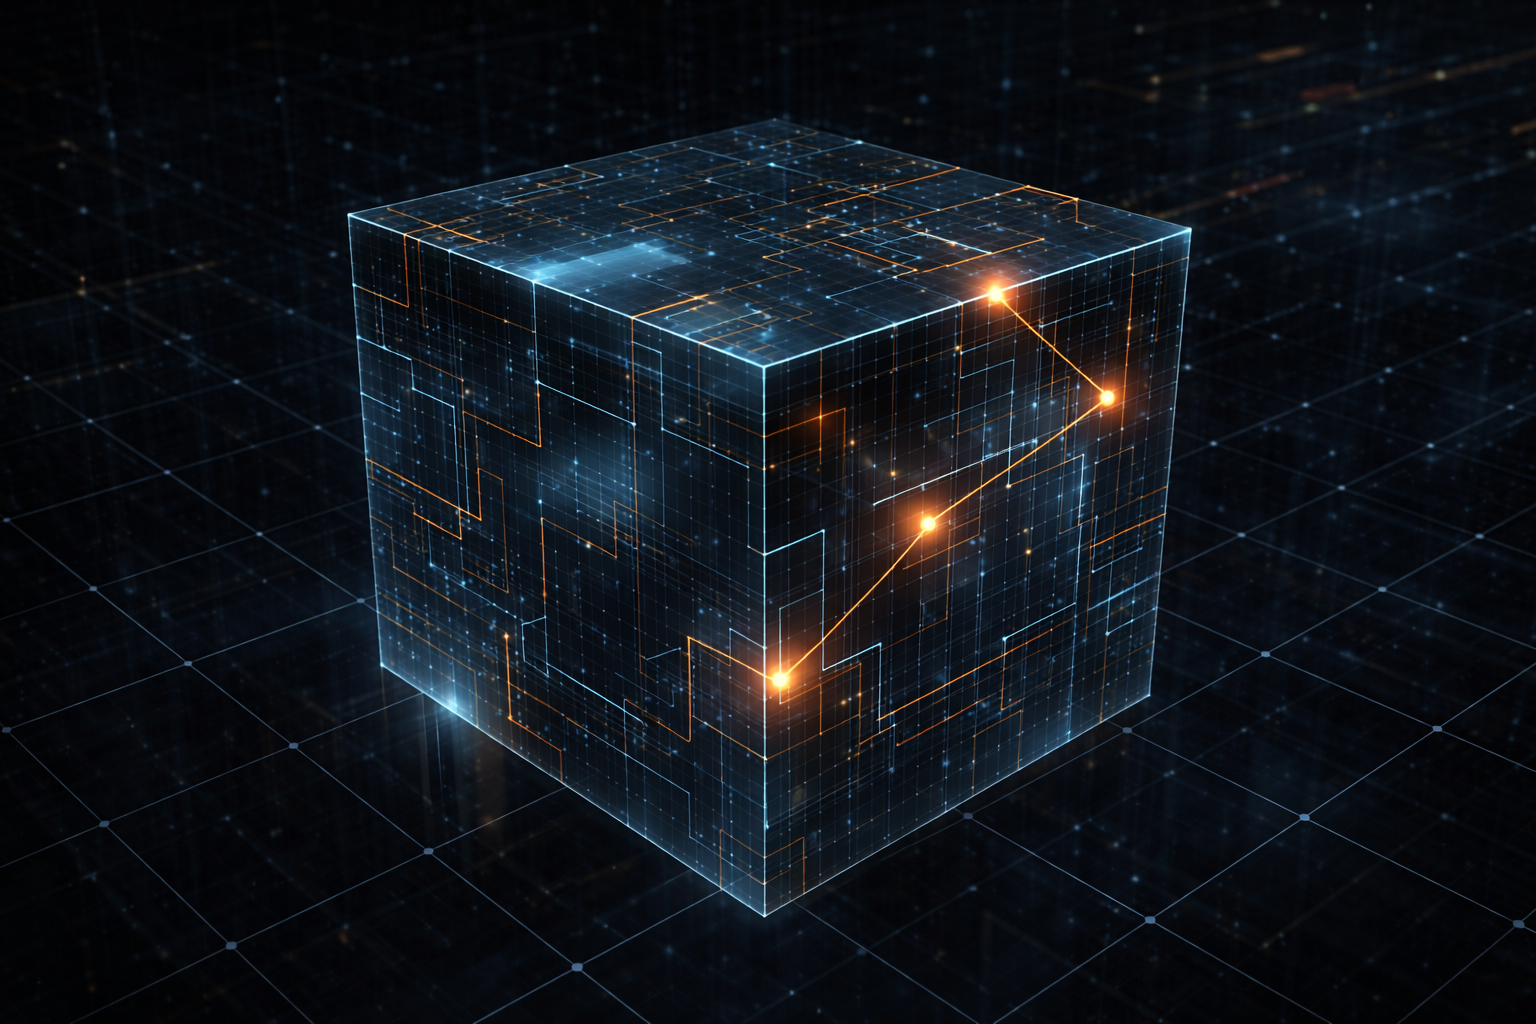
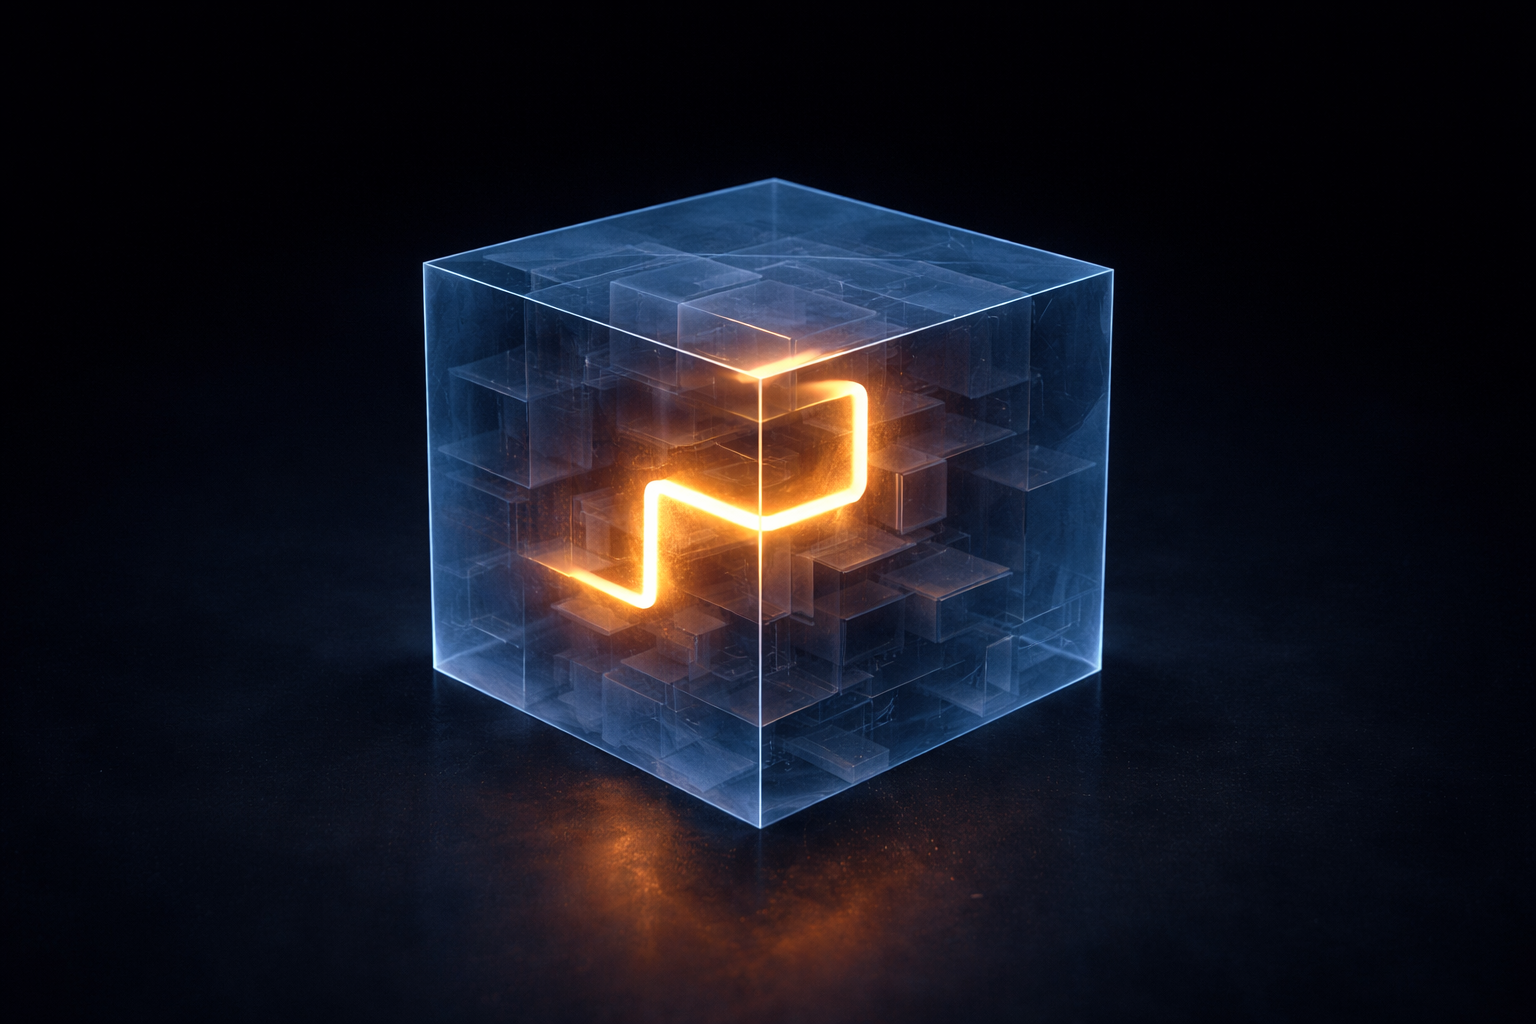
updated the images

diff --git a/_site/posts/oob_bench2/index.html b/_site/posts/oob_bench2/index.html
@@ -140,6 +140,12 @@ j=d.createElement(s),dl=l!='dataLayer'?'&l='+l:'';j.async=true;j.src=
 
 <section id="when-are-two-bugs-the-same-bug" class="level1">
 <h1>When Are Two Bugs the Same Bug?</h1>
+<div class="quarto-figure quarto-figure-center">
+<figure class="figure">
+<p><img src="article_hero.png" class="article-hero img-fluid figure-img"></p>
+<figcaption>Illustration of two glowing cubes</figcaption>
+</figure>
+</div>
 <p><em>Article 2 of the OOB Bench series.</em></p>
 <p>In the first article, we showed that for the purpose of identifying weaknesses in C code, existing CWE labels are poorly aligned with code-centric analysis. The problem is not the labels themselves, but the ambiguity introduced by hierarchical specificity and by mixing causes with consequences. The same vulnerable code can be described correctly at multiple levels of the CWE hierarchy, while different failure mechanisms can share a label.</p>
 <p>The result is a dataset that does not reliably capture the properties of the code needed to evaluate or train a classifier. If labels do not define a stable equivalence relation, classification quality cannot be measured because it is unclear what it even means for two vulnerabilities to be “the same.”</p>

diff --git a/_site/index.html b/_site/index.html
@@ -178,10 +178,10 @@ window.Quarto = {
 
 <div class="quarto-listing quarto-listing-container-default" id="listing-listing">
 <div class="list quarto-listing-default">
-<div class="quarto-post image-right" data-index="0" data-listing-file-modified-sort="1766454680528" data-listing-reading-time-sort="7" data-listing-word-count-sort="1398">
+<div class="quarto-post image-right" data-index="0" data-listing-file-modified-sort="1766700001316" data-listing-reading-time-sort="8" data-listing-word-count-sort="1402">
 <div class="thumbnail"><a href="./posts/oob_bench2/index.html" class="no-external">
 
-<p class="card-img-top"><img src="assets/vartia_logo.svg" alt="Vartia logo"  class="thumbnail-image card-img"/></p>
+<img loading="lazy" src="./posts/oob_bench2/thumbnail.png" class="thumbnail-image">
 
 </a></div>
 <div class="body">

diff --git a/_site/styles.css b/_site/styles.css
@@ -180,6 +180,23 @@ a:hover {
   color: #144ea3;
 }
 
+/* Appendix/footer: keep references legible */
+#quarto-appendix,
+#quarto-appendix .quarto-appendix-contents {
+  background: var(--bg);
+  color: var(--text);
+}
+
+#quarto-appendix a {
+  color: #1f6feb;
+  text-decoration: underline;
+  font-weight: 600;
+}
+
+#quarto-appendix a:hover {
+  color: #144ea3;
+}
+
 /* Headings */
 h1, h2, h3, h4, h5, h6, .title {
   color: var(--text) !important;

diff --git a/styles.css b/styles.css
@@ -180,6 +180,23 @@ a:hover {
   color: #144ea3;
 }
 
+/* Appendix/footer: keep references legible */
+#quarto-appendix,
+#quarto-appendix .quarto-appendix-contents {
+  background: var(--bg);
+  color: var(--text);
+}
+
+#quarto-appendix a {
+  color: #1f6feb;
+  text-decoration: underline;
+  font-weight: 600;
+}
+
+#quarto-appendix a:hover {
+  color: #144ea3;
+}
+
 /* Headings */
 h1, h2, h3, h4, h5, h6, .title {
   color: var(--text) !important;
